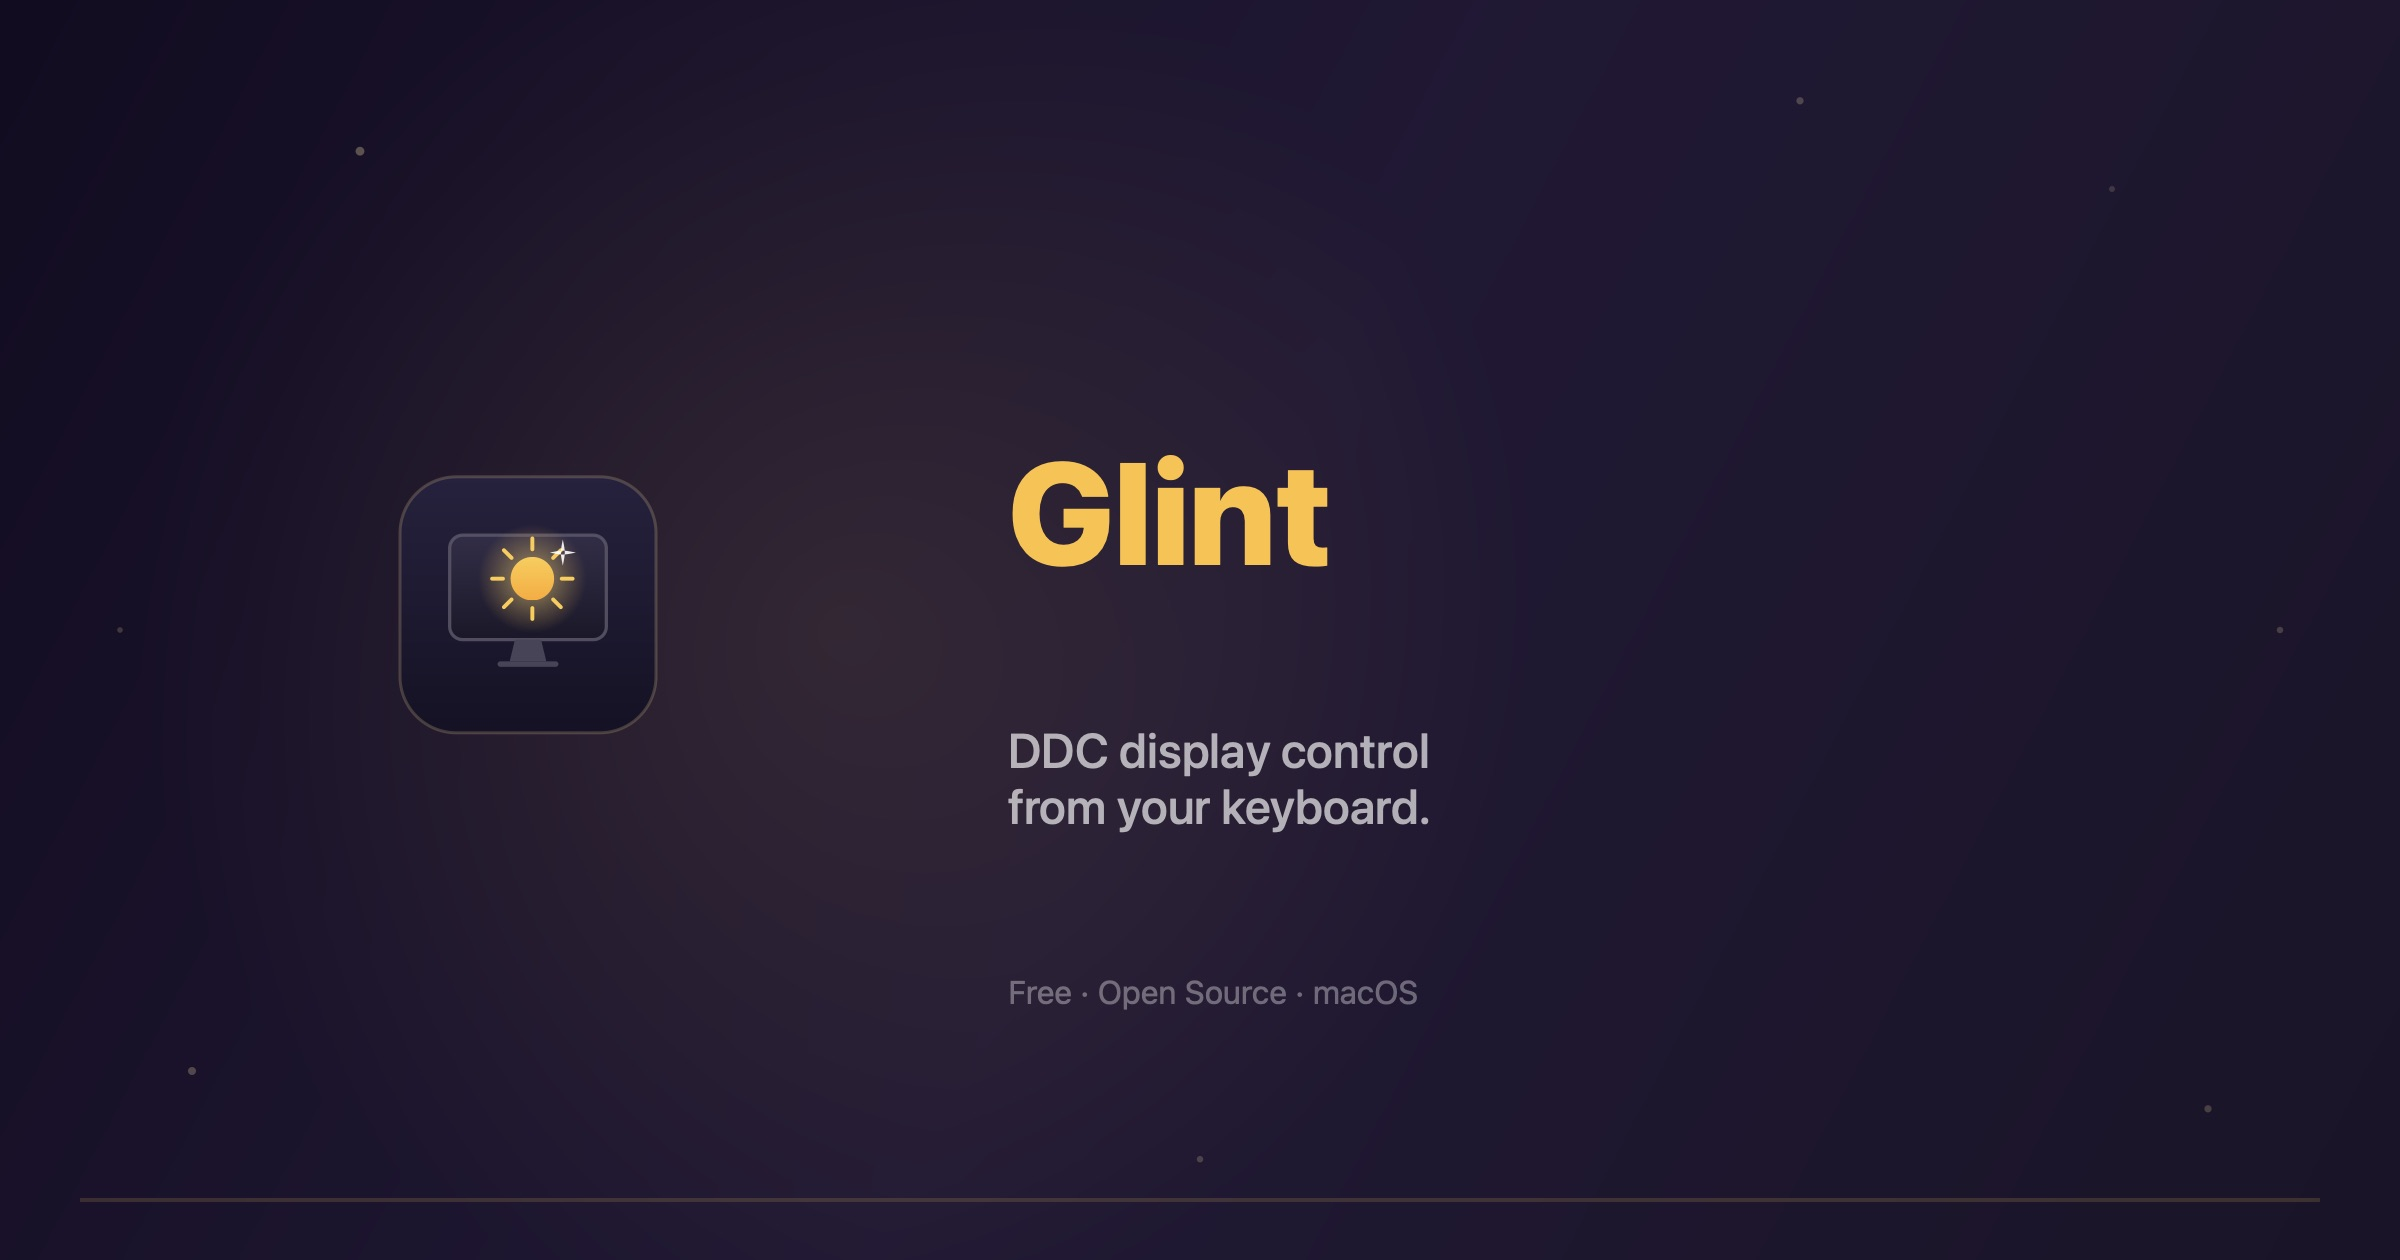
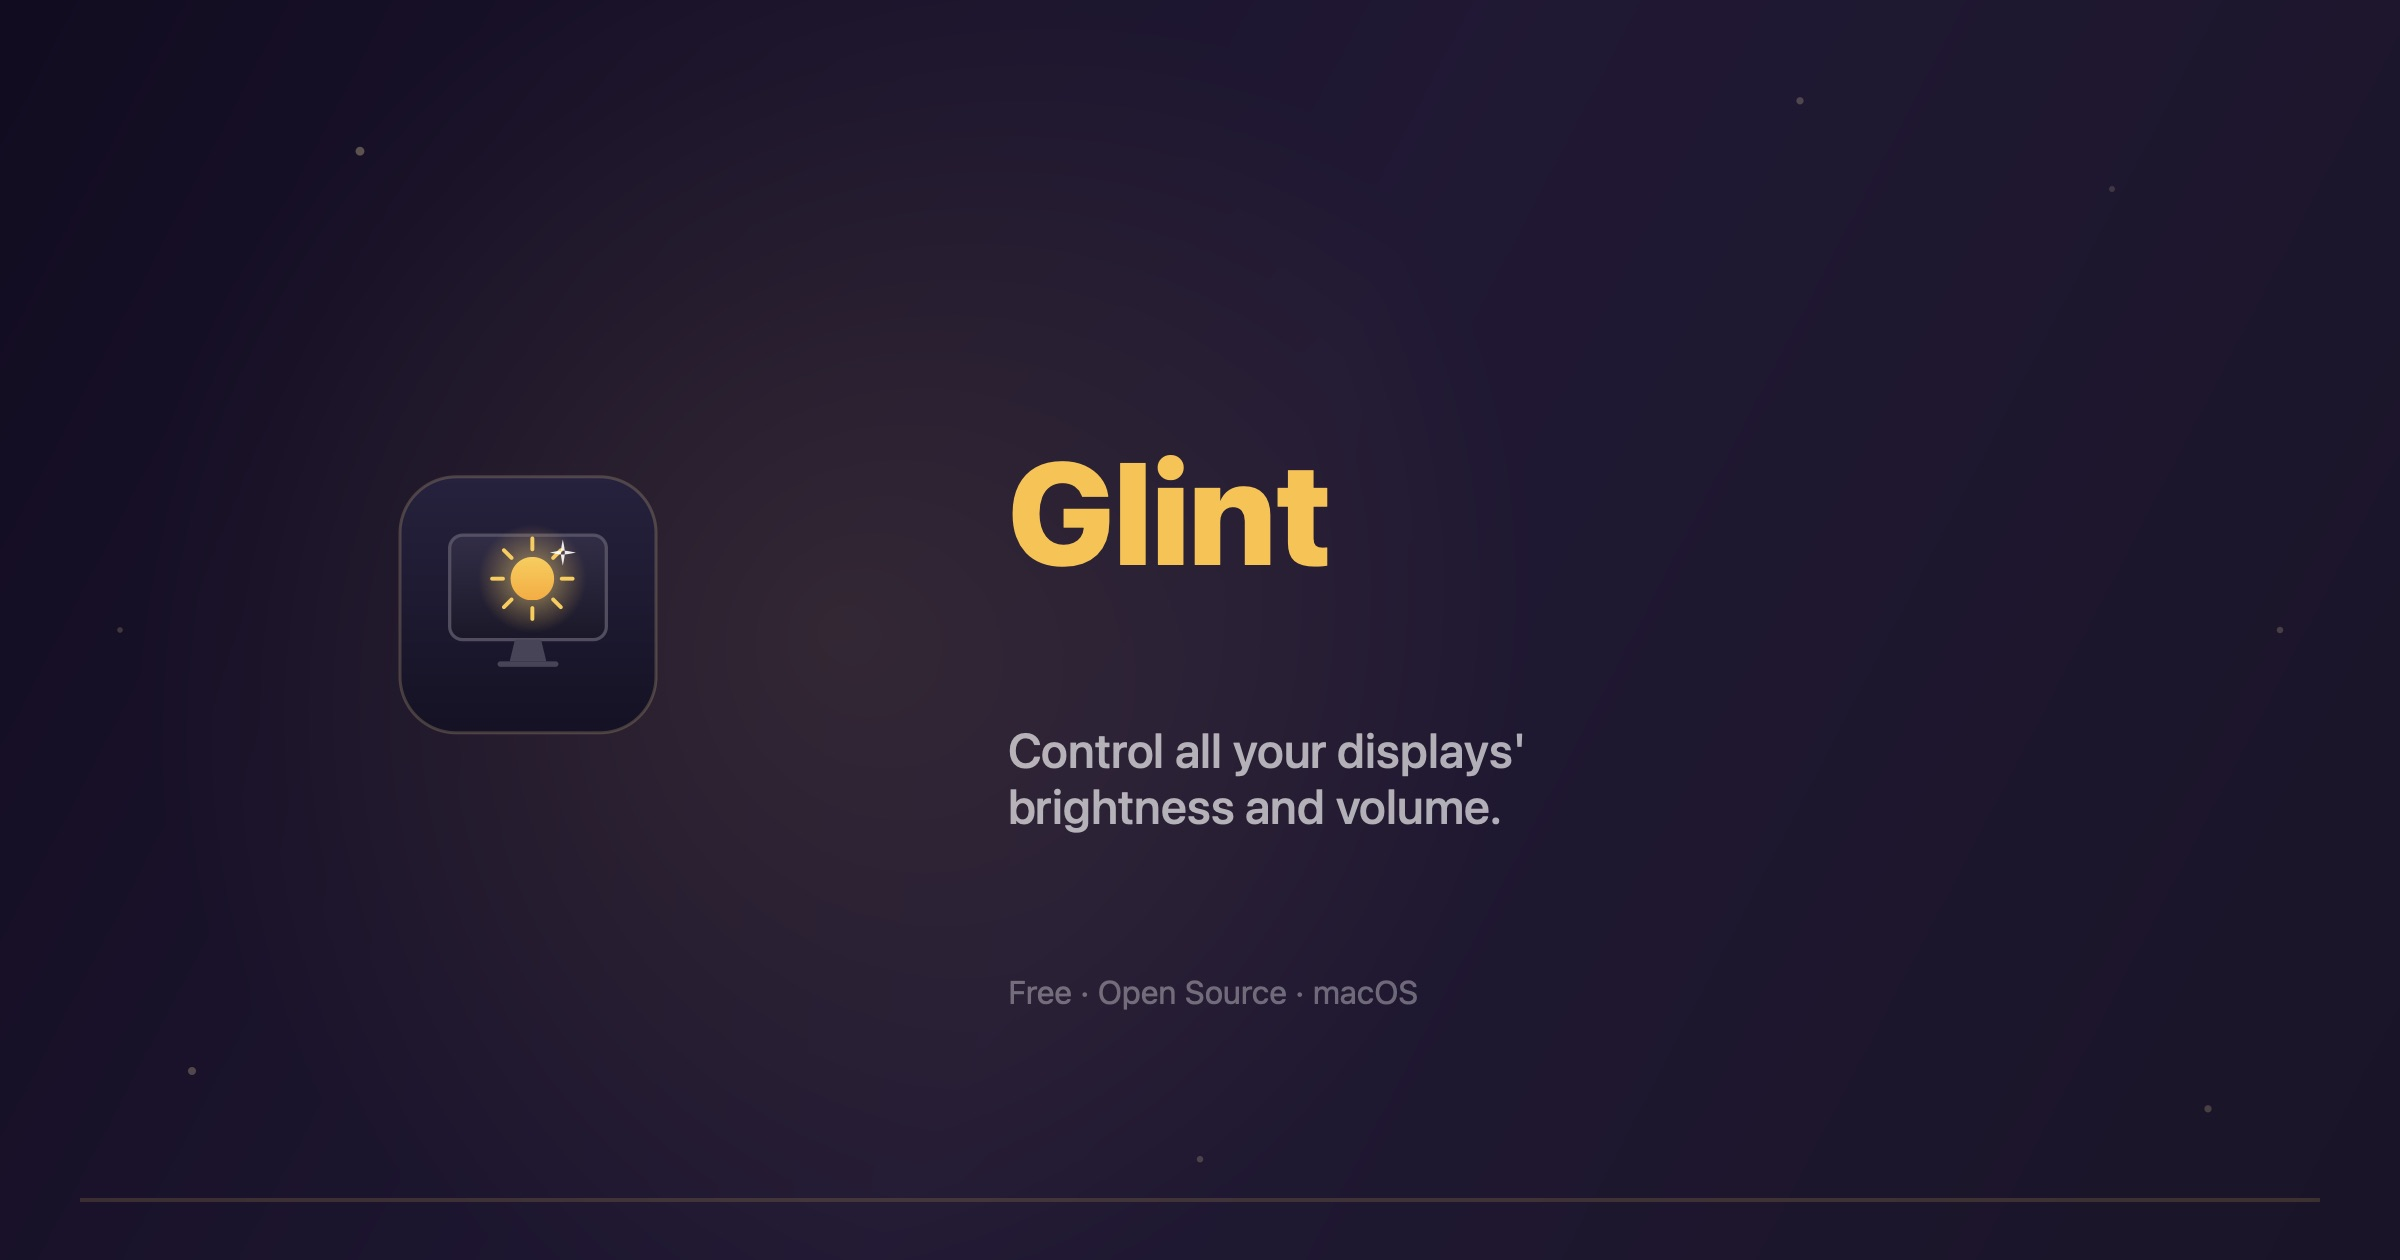
Update OG poster tagline to plain language

Changed region(s): [[0.4062, 0.5881, 0.625, 0.681]]

diff --git a/Scripts/generate-web-assets.swift b/Scripts/generate-web-assets.swift
@@ -312,7 +312,7 @@ func generateOGPoster() -> NSImage {
             .foregroundColor: NSColor(white: 1.0, alpha: 0.65),
             .paragraphStyle: titleStyle,
         ]
-        let tagStr = "DDC display control\nfrom your keyboard."
+        let tagStr = "Control all your displays'\nbrightness and volume."
         let tagRect = NSRect(x: textX, y: h * 0.30, width: textMaxW, height: 80)
         tagStr.draw(in: tagRect, withAttributes: tagAttrs)
 
